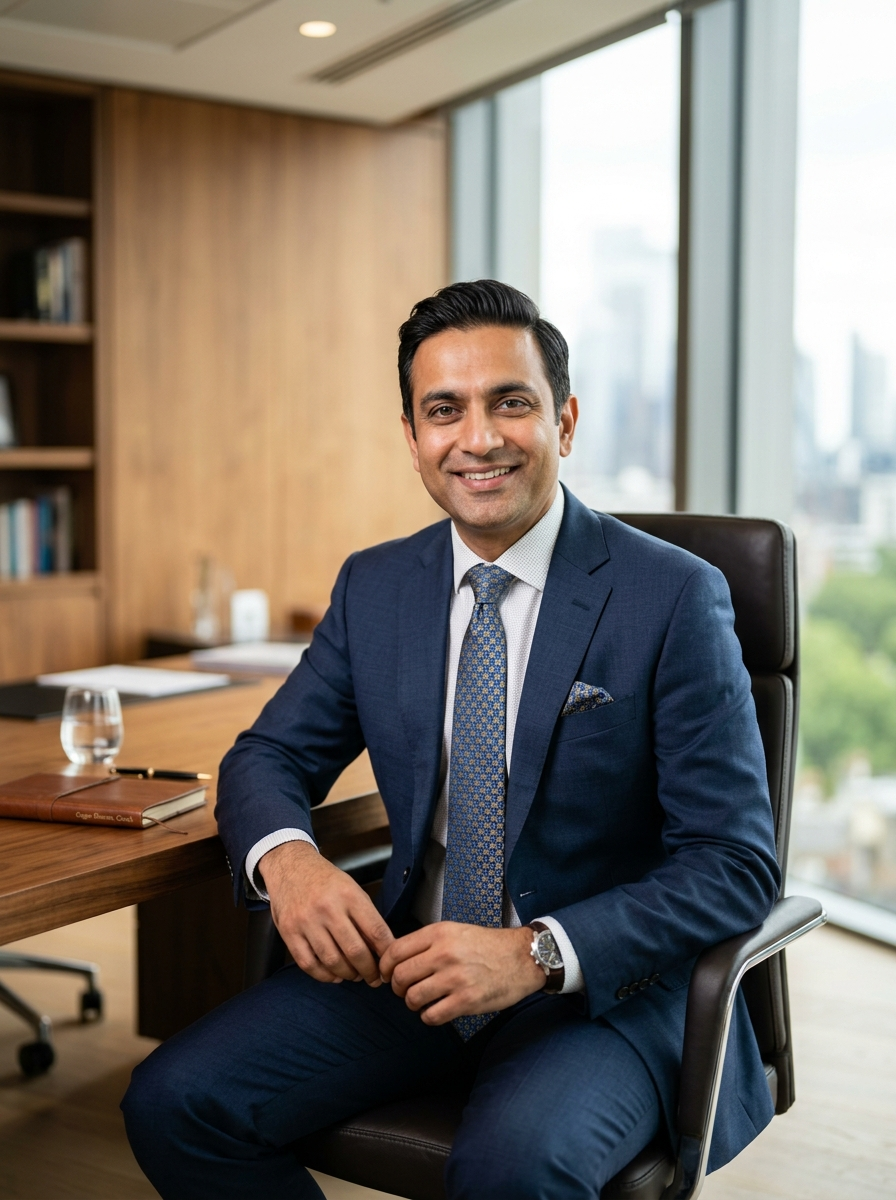
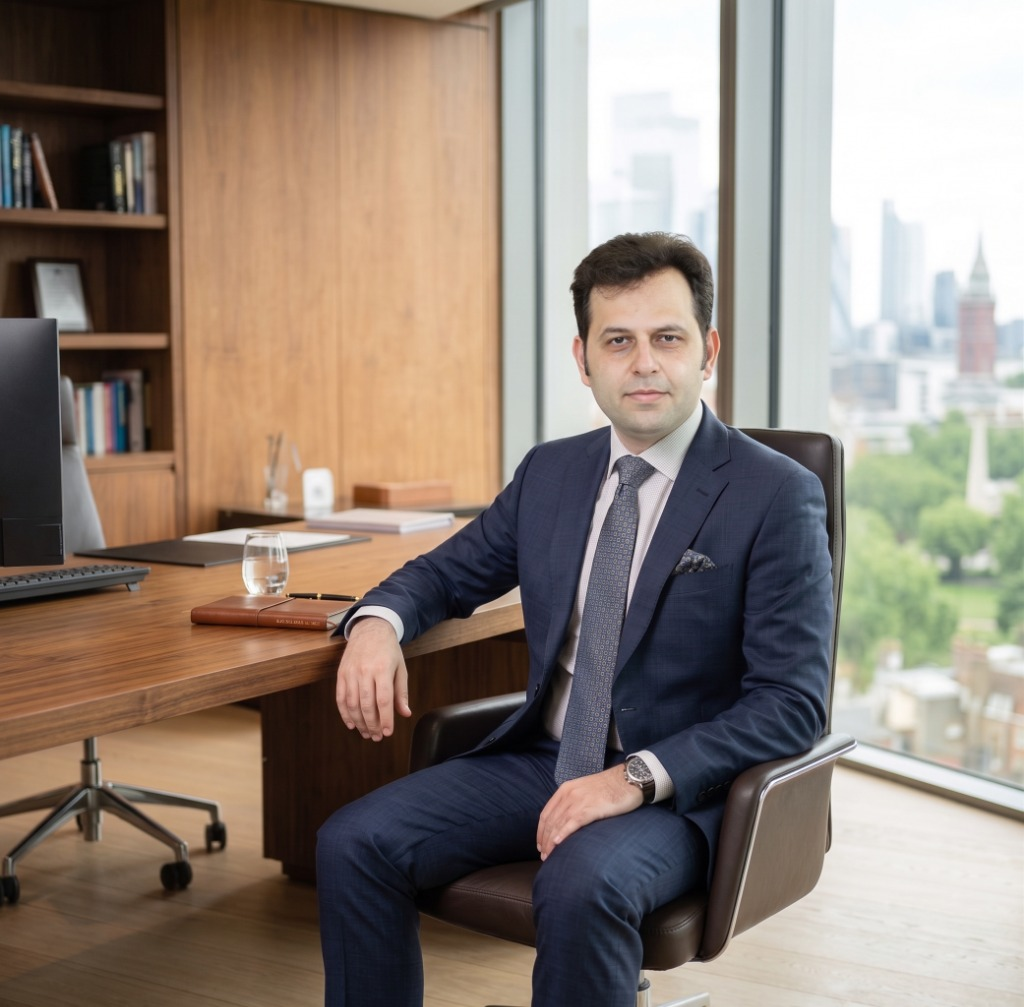
Update coach portrait with official executive photo of Gagan Sharma across website

diff --git a/about.html b/about.html
@@ -362,7 +362,7 @@
     <!-- CTA -->
     <section class="section section-dark" style="text-align: center;">
       <div class="container-narrow">
-        <img src="assets/images/coach_portrait.jpg" alt="Gagan Sharma" style="width: 80px; height: 80px; border-radius: 50%; object-fit: cover; border: 2px solid var(--brand-accent-gold); margin: 0 auto 1.5rem; display: block;">
+        <img src="assets/images/coach_portrait.jpg" alt="Gagan Sharma" style="width: 80px; height: 80px; border-radius: 50%; object-fit: cover; object-position: center 20%; border: 2px solid var(--brand-accent-gold); margin: 0 auto 1.5rem; display: block;">
         <h2 class="headline-lg" style="margin-bottom: 1rem;">Let's Talk About Your Next Move.</h2>
         <p class="body-lg" style="max-width: 620px; margin: 0 auto 2rem; color: var(--text-inverse-muted);">
           Book a free 30-minute discovery call with me. We'll get clear on what you're working toward, what's in the way, and whether coaching together makes sense.
